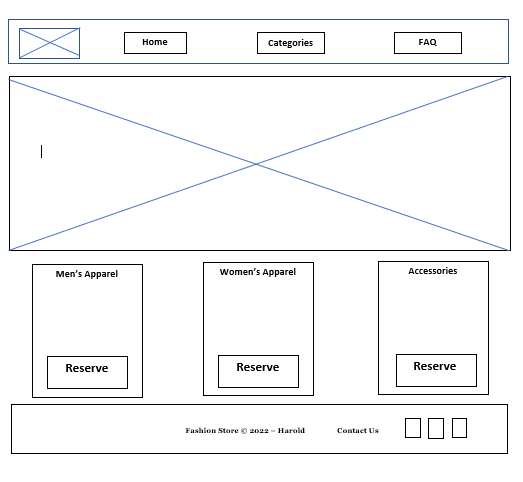
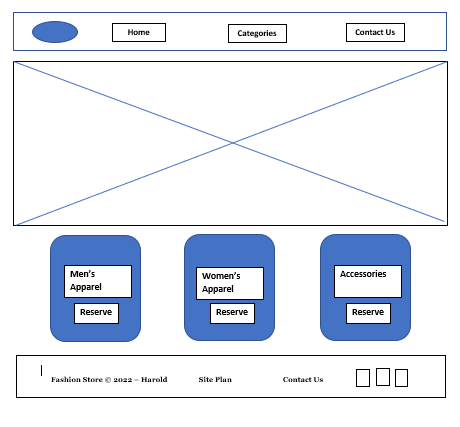
Changes

diff --git a/wdd130/site-plan.html b/wdd130/site-plan.html
@@ -52,7 +52,7 @@
       <table class="colors">
         <tr><th>Primary</th><th>Secondary</th><th>Accent 1</th><th>Accent 2</th></tr>
         <!-- Replace the numbers in the boxes below with your hex color codes. Then switch to the site-plan.css file and change your colors there as well. -->
-        <tr><td class="primary">[#E2ECF4]</td><td class="secondary">[#FAF2DB]</td><td class="accent1">[#CC806B]</td><td class="accent2"></td></tr>
+        <tr><td class="primary">[#2A6F97]</td><td class="secondary">[#cadetblue]</td><td class="accent1">[#gray]</td><td class="accent2">[#darkorange]</td></tr>
       </table>
 
       <!-- ------------------------Step 9------------------------------ -->
@@ -89,7 +89,7 @@
       <!-- Think about how you want your navigation bar to look. In the site-plan.css file change the colors to your colors to get the look you desire. --> 
       <nav>
         <a href="index.html">Home</a>
-        <a href="pricing.html">Pricing</a>
+        <a href="pricing.html">Categories</a>
         <a href="contactus.html">Contact Us</a>
       </nav>
       <hr>
@@ -126,28 +126,28 @@
       </h2>
       <h3>Home page</h3>
       <p>
-        For the Home Page, you can see the mission statement of the website and a tagline. Here's the page as well where customer's will discover some feature, advantage and benefits they can get by shopping online in our store.
+        For the Home Page, you can see the mission statement of the website and a tagline.
       </p>
       <p>Images for the Home page</p>
         <img src="https://images.pexels.com/photos/7808603/pexels-photo-7808603.jpeg?cs=srgb&dl=pexels-wallace-chuck-7808603.jpg&fm=jpg" alt="man photo">
         <img src="https://images.pexels.com/photos/1884584/pexels-photo-1884584.jpeg?cs=srgb&dl=pexels-tembela-bohle-1884584.jpg&fm=jpg" alt="clothes photo">
 
       </ul>
-      <h3>Pricing</h3>
+      <h3>Categories</h3>
       <p>
-        So here's the page where different categories depending on customer's taste are located. It includes shirts, pants, shoes, bags and more.
+        So here's the page for items. We categorize it to male, female, and accessories apparel.
       </p>
       <p>Images for the Page 2</p>
         <img src="https://images.pexels.com/photos/322207/pexels-photo-322207.jpeg?cs=srgb&dl=pexels-lumn-322207.jpg&fm=jpg" alt="clothings1">
         <img src="https://images.pexels.com/photos/934070/pexels-photo-934070.jpeg?cs=srgb&dl=pexels-ylanite-koppens-934070.jpg&fm=jpg" alt="clothings 2">
 
       </ul>
-      <h3>FAQ</h3>
+      <h3>Contact Us</h3>
       <p>
-        The third page is a help center and intended for common questions customer's might have and answers that might help them. This page includes different categories like order and shipping, the payments, returns and refunds and more. 
+        The third page is where customer will contact us to confirm their order. 
       </p>
       <p>Images for the Page 3</p>
-        <img src="https://images.pexels.com/photos/33999/pexels-photo.jpg?cs=srgb&dl=pexels-negative-space-33999.jpg&fm=jpg" alt="Telephone">
+        <img src="https://as2.ftcdn.net/v2/jpg/02/84/84/03/1000_F_284840354_Iu4ZVcCtYTUDrl4PK6tQEVAzBmePJhrS.jpg" alt="Contactus">
         <img src="https://media.istockphoto.com/photos/questions-and-answers-discussion-forum-picture-id1156622227?s=612x612" alt="QandA">
 
       </ul>
@@ -170,11 +170,11 @@
       </p>
       <img src="images/categories.PNG" alt="categories wireframe">
 
-      <h3>FAQ</h3>
+      <h3>Contact Us</h3>
       <p>         
-        This will be the question and answer page.
+        This will be the confirmation of order page..
       </p>
-      <img src="images/faq.PNG" alt="FAQ wireframe">
+      <img src="images/faq.PNG" alt="Contact Us wireframe">
     </main>
   </body>
 

diff --git a/wdd130/styles/wdd_styles.css b/wdd130/styles/wdd_styles.css
@@ -25,7 +25,7 @@ header {
     grid-template-columns: 150px auto; 
   }
 nav {
-    font-family: 'EB Garamond';
+    font-family: Georgia, 'Times New Roman', Times, serif;
     display: flex; 
     justify-content: space-around;
     text-align: center;
@@ -78,17 +78,17 @@ nav a:hover {
 }
 
 #store-tagline h1 {
-    color: white;
+    color: darkorange;
     margin-right: 50px ;
     font-size: 80px;
 }
 #store-tagline h2 {
-    color: white;
+    color: darkorange;
     margin-right: 1000px ;
     font-size: 60px;
 }
 #store-tagline p {
-    color: white;
+    color: darkorange;
     margin-right: 50px ;
     font-size: 50px;
 }

diff --git a/wdd130/styles/site-plan.css b/wdd130/styles/site-plan.css
@@ -5,13 +5,13 @@ Fonts are separated by a | */
 
 :root {
   /* change the values below to your colors from your palette */
-  --primary-color: #E2ECF4   ;
-  --secondary-color: #FAF2DB ;
-  --accent1-color: #CC806B;
-  --accent2-color: white;
+  --primary-color: #2A6F97   ;
+  --secondary-color: cadetblue ;
+  --accent1-color: gray;
+  --accent2-color: darkorange;
 
   /* change the values below to your chosen font(s) */
-  --heading-font: "Georgia";
+  --heading-font: "Georgia, 'Times New Roman', Times, serif;";
   --paragraph-font: Georgia;
 
   /* these colors below should be chosen from among your palette colors above */

diff --git a/wdd130/pricing.html b/wdd130/pricing.html
@@ -5,7 +5,7 @@
     <meta charset="UTF-8">
     <meta http-equiv="X-UA-Compatible" content="IE=edge">
     <meta name="viewport" content="width=device-width, initial-scale=1.0">
-    <title>Fashion Store | Pricing</title>
+    <title>Fashion Store | Categories</title>
     <link rel="stylesheet" href="styles/wdd_styles.css">
 </head>
 <body>
@@ -16,7 +16,7 @@
         </a>
         <nav>
             <a href="index.html">Home</a>
-            <a href="pricing.html">Pricing</a>
+            <a href="pricing.html">Categories</a>
             <a href="contactus.html">Contact Us</a>
         </nav>
     </header>

diff --git a/wdd130/contactus.html b/wdd130/contactus.html
@@ -15,14 +15,14 @@
         </a>
         <nav>
             <a href="index.html">Home</a>
-            <a href="pricing.html">Pricing</a>
+            <a href="pricing.html">Categories</a>
             <a href="contactus.html">Contact Us</a>
         </nav>
     </header>
 
     <div id="store">
         <div id="store-box">
-            <img src="images/Contact Us.png" alt="Contact Us">
+            <img src="https://as2.ftcdn.net/v2/jpg/02/84/84/03/1000_F_284840354_Iu4ZVcCtYTUDrl4PK6tQEVAzBmePJhrS.jpg" alt="Contact Us">
         </div>
     </div>
     

diff --git a/wdd130/index.html b/wdd130/index.html
@@ -15,7 +15,7 @@
         </a>
         <nav>
             <a href="index.html">Home</a>
-            <a href="pricing.html">Pricing</a>
+            <a href="pricing.html">Categories</a>
             <a href="contactus.html">Contact Us</a>
         </nav>
     </header>
